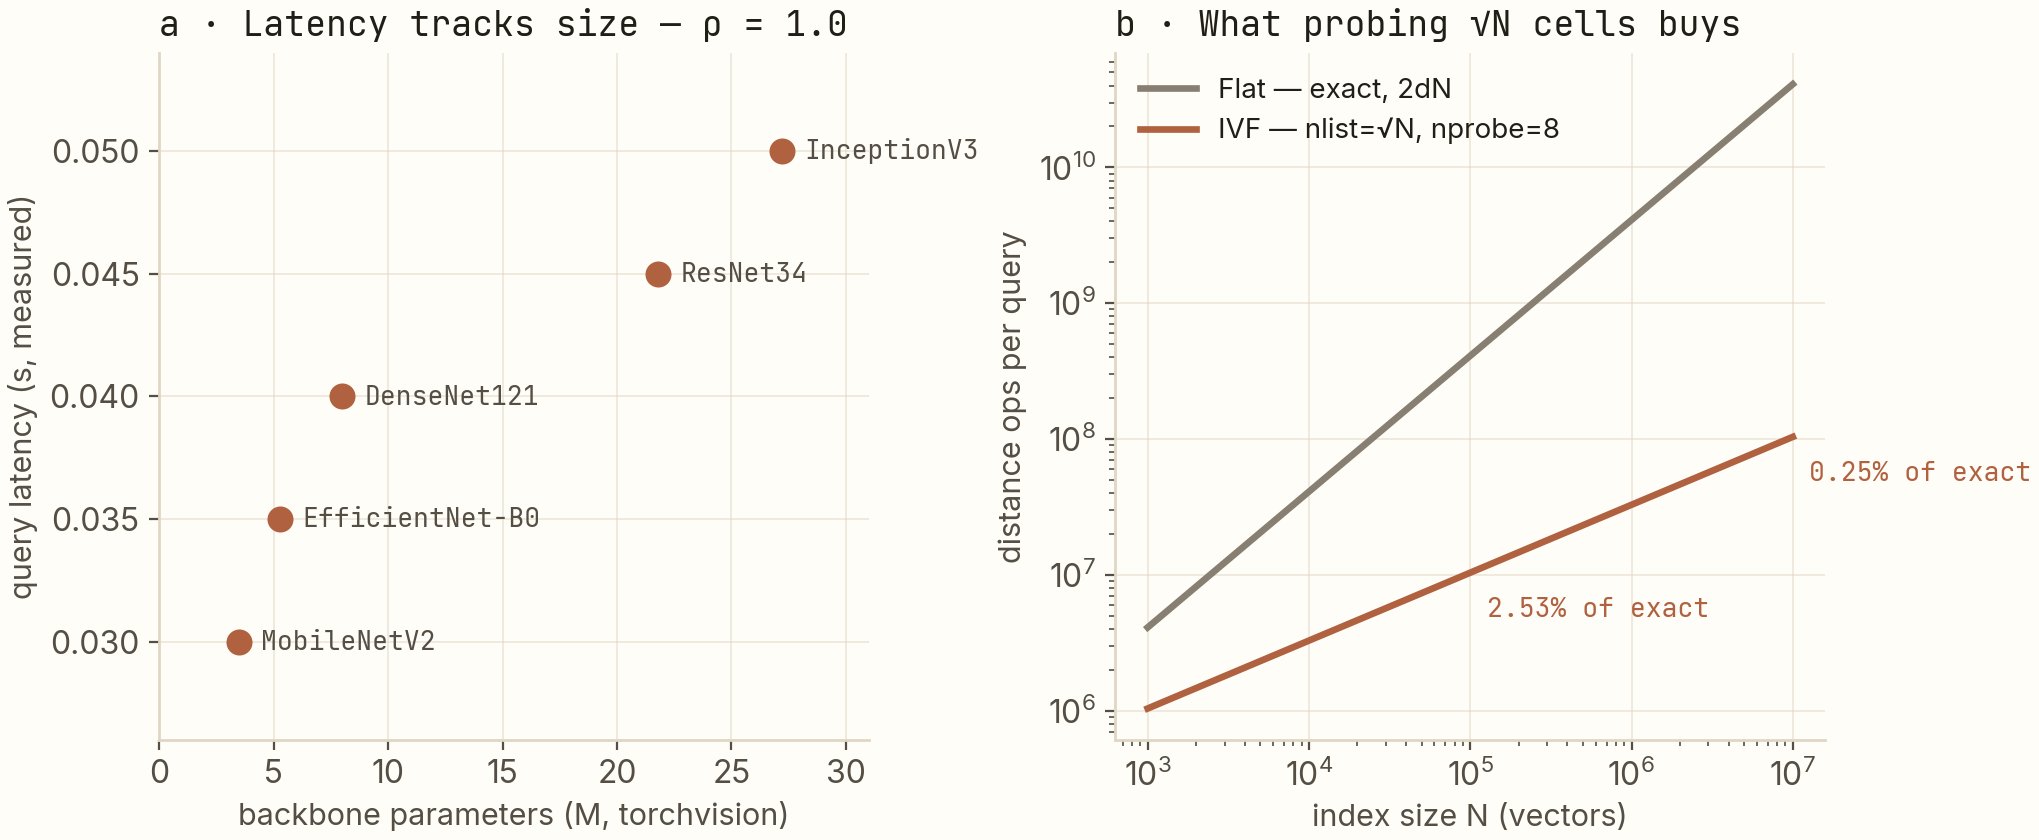
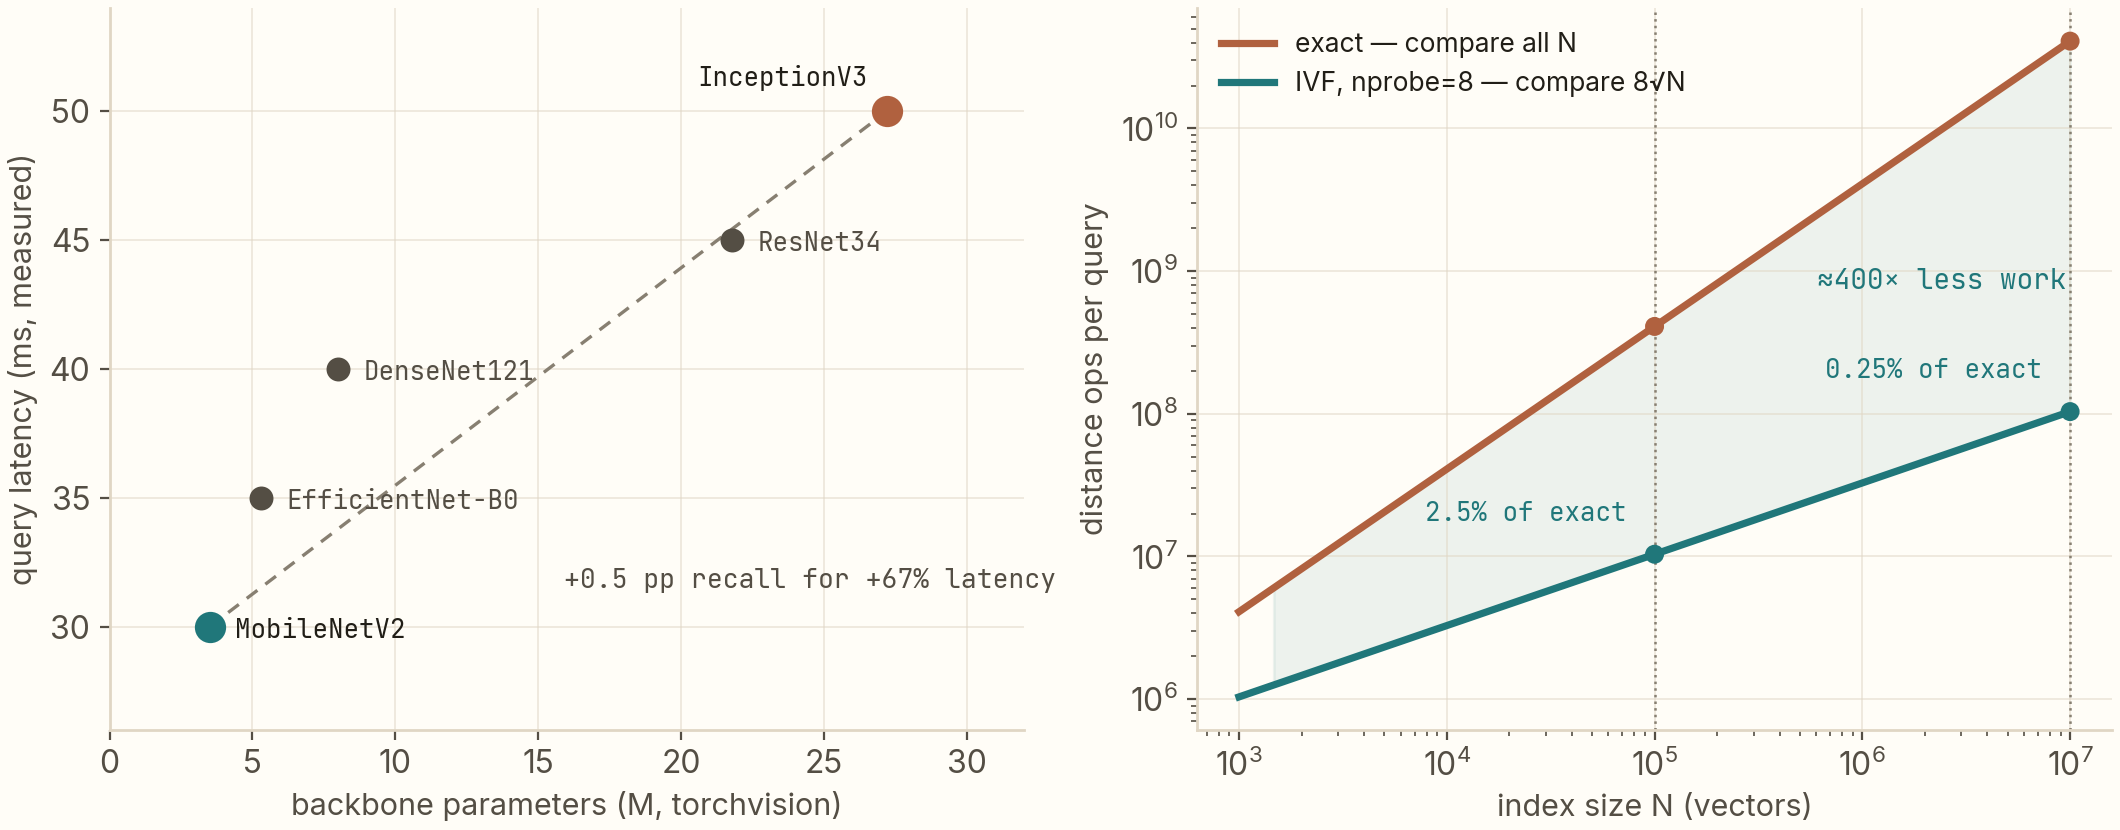
site: redesign image-search figures, move panel captions into HTML

diff --git a/posts/image-search-geometry.html b/posts/image-search-geometry.html
@@ -74,14 +74,11 @@
         <div class="prose">
           <div class="callout">
             <div class="h">TL;DR</div>
-            <p style="margin:0;">
-              Modern image search turns every picture into a vector, then finds nearby vectors. Once you see
-              that, three things become provable rather than mystical: <strong>cosine and L2 similarity give
-              identical rankings</strong> after normalization (two-line proof); <strong>precision 1.00 with
-              recall 0.87 tells you exactly what kind of failure you have</strong> (ranking, not retrieval);
-              and <strong>exact search dies on arithmetic you can do on paper</strong> (4×10⁸ distance
-              computations per query at 100K images — 2.5% of that with an IVF index).
-            </p>
+            <ul style="margin:.35rem 0 0; padding-left:1.15rem;">
+              <li style="margin:.3rem 0;"><strong>Cosine and Euclidean distance give identical rankings</strong> once vectors are normalized — provable in two lines.</li>
+              <li style="margin:.3rem 0;"><strong>Precision 1.00 with recall 0.87 is a diagnosis</strong>, not a disappointment: the failure is ranking, not confusion — and the two have different fixes.</li>
+              <li style="margin:.3rem 0;"><strong>Exact search dies on arithmetic you can do on paper</strong>: 4×10⁸ distance computations per query at 100K images. An IVF index does 2.5% of that.</li>
+            </ul>
           </div>
 
           <h2>What this post is about</h2>
@@ -102,7 +99,7 @@
           </p>
           <ul>
             <li>what an <strong>embedding</strong> is and why "closer vector = similar image" is even coherent;</li>
-            <li>a two-line proof that the two similarity metrics everyone mentions — <strong>cosine and L2 distance</strong> — are the same thing;</li>
+            <li>a two-line proof that the two similarity metrics everyone mentions — <strong>cosine similarity and Euclidean (L2) distance</strong> — are the same thing;</li>
             <li>how to read <strong>precision and recall</strong> for a retrieval system, and what their combination diagnoses;</li>
             <li>the <strong>cost arithmetic</strong> that forces big systems away from exact search.</li>
           </ul>
@@ -157,10 +154,10 @@
             The rest of the post is about those.
           </p>
 
-          <h2>Result 1: cosine and L2 are the same ranking</h2>
+          <h2>Result 1: cosine similarity and Euclidean distance give the same ranking</h2>
           <p>
             You'll see image-search codebases (including mine) normalize every vector to length 1 and then
-            search by <em>L2 distance</em> — while every tutorial talks about <em>cosine similarity</em>.
+            search by <em>Euclidean distance</em> (L2) — while every tutorial talks about <em>cosine similarity</em>.
             These produce identical rankings, and the proof is two lines of algebra.
           </p>
           <p>
@@ -183,8 +180,8 @@
           </ul>
 
           <figure class="figure">
-            <img src="../assets/img/posts/image-search-geometry/geometry.png" alt="Left: curve of squared L2 distance versus cosine similarity for unit vectors, with three marked points. Right: unit circle scatter plot of two embedding classes with an angular decision boundary and a query point." />
-            <figcaption>How to read this: left is the equation above drawn as a curve — the three dots are the pairs listed in the text. Right is a fake 2-D embedding space standing in for the real 1000-dimensional one: two image classes (dots by color) land in different directions from the origin, so a query (star) is answered by angle alone. The dashed lines are the natural decision boundary.</figcaption>
+            <img src="../assets/img/posts/image-search-geometry/geometry.png?v=2" alt="Left: squared Euclidean distance plotted against cosine similarity for unit vectors — one curve, with the region where similar images live shaded. Right: a 2-D embedding space with two image classes as point clouds in opposite directions, a query star, and a hollow point showing that halving a vector's length does not change its ranking." />
+            <figcaption><strong>a · One number determines the other.</strong> The equation as a curve: distance is fully determined by cosine similarity, and retrieval-quality neighbors (cos θ ≥ 0.90, shaded) all sit in its flat region. <strong>b · Only the angle matters.</strong> A 2-D stand-in for the real 1000-dimensional space: two classes are two <em>directions</em>, the query is answered by angle alone, and the hollow point shows why — same direction, half the length, identical ranking.</figcaption>
           </figure>
 
           <p>
@@ -208,14 +205,18 @@
             index and are findable — they simply scored below the cut. <strong>All error is ranking error,
             none is confusion error.</strong>
           </p>
+          <div class="callout">
+            <div class="h">Reading the pair</div>
+            <ul style="margin:.35rem 0 0; padding-left:1.15rem;">
+              <li style="margin:.3rem 0;"><strong>P high, R low</strong> — clean embeddings, conservative ranking. A systems problem: return more neighbors, lower the threshold, tighten within-class compactness. Mechanical fixes.</li>
+              <li style="margin:.3rem 0;"><strong>P low</strong> — embeddings genuinely mix classes. A model problem: no index knob helps; you need a better backbone.</li>
+            </ul>
+          </div>
+
           <p>
-            Why does that distinction matter? Because it dictates the fix. If precision were the problem,
-            you'd need a better backbone — the embeddings genuinely mix classes. With ranking-only error,
-            the knobs are mechanical: return more neighbors per query, lower the similarity threshold, or
-            improve within-class compactness (via fine-tuning). Compare two hypothetical systems with
-            similar F1: P 0.90 / R 0.90 (confused embeddings — model problem) vs my P 1.00 / R 0.87
-            (conservative ranking — systems problem). Same F1, completely different to-do list. That's why
-            I read the precision/recall pair <em>shape</em> before any single number.
+            That's why the pair's <em>shape</em> beats any single number. Two systems with the same F1 —
+            P 0.90 / R 0.90 versus my P 1.00 / R 0.87 — carry opposite diagnoses: the first has confused
+            embeddings, the second merely ranks conservatively. Same score, completely different to-do list.
           </p>
 
           <h2>Result 3: the arithmetic that kills exact search</h2>
@@ -239,16 +240,16 @@
           </p>
 
           <figure class="figure">
-            <img src="../assets/img/posts/image-search-geometry/cost.png" alt="Left: scatter plot of backbone parameter count versus measured query latency for five CNNs, with perfect rank correlation. Right: log-log plot of distance computations per query versus index size for Flat and IVF search." />
-            <figcaption>How to read this: left — my measured query latency (vertical) against each backbone's parameter count (horizontal, from torchvision). The ordering is a perfect rank correlation: at this scale the embedding pass dwarfs the FAISS lookup. Right — distance computations per query as your database grows: the gray line is exact search (linear), the accent line is IVF (proportional to √N). The gap is ≈400× at 10M images.</figcaption>
+            <img src="../assets/img/posts/image-search-geometry/cost.png?v=2" alt="Left: measured query latency versus parameter count for five CNN backbones, ordered perfectly along a trade-off line from MobileNetV2 to InceptionV3. Right: distance computations per query versus index size on log-log axes — exact search grows linearly with N, IVF with the square root of N, a 400x gap at 10 million vectors." />
+            <figcaption><strong>a · Latency tracks the backbone (ρ = 1.00).</strong> Five backbones, one trade-off line: the recall you buy at InceptionV3 costs +67% latency over MobileNetV2 (the two highlighted endpoints). <strong>b · Exact search grows with N; IVF with √N.</strong> The shaded gap is ≈400× less work at 10M images, tunable back toward exactness via nprobe.</figcaption>
           </figure>
 
           <p>
             The left panel is the sleeper insight of the whole experiment: <strong>latency is decided by
-            the backbone, not the search</strong>. The CNN forward pass dominates; FAISS is a rounding
-            error. Which turns backbone choice into a quantified engineering decision: InceptionV3 buys
-            +0.5 percentage points of recall over MobileNetV2 for 67% more latency. Take that trade or
-            don't — but now it's a line item, not a benchmark trophy.
+            the backbone, not the search</strong> — the CNN forward pass dominates, and FAISS is a
+            rounding error. The dashed line between the two highlighted endpoints is the whole decision:
+            InceptionV3 buys +0.5 percentage points of recall over MobileNetV2 for 67% more latency.
+            Take that trade or don't — but it's a line item now, not a benchmark trophy.
           </p>
 
           <h2>Same math, bigger scale</h2>

diff --git a/tools/make_image_search_figures.py b/tools/make_image_search_figures.py
@@ -1,0 +1,221 @@
+#!/usr/bin/env python3
+"""Regenerate the two figures for the image-search-geometry post.
+
+Design goals (2026 rework):
+- Functional two-hue palette: site clay #b0613f vs petrol teal #20777a, so
+  categories read instantly on the cream background instead of four shades
+  of brown.
+- Every annotation placed at hand-checked coordinates — no label collisions.
+- Panels teach: takeaway titles, shaded meaning-zones, the trade-off drawn
+  on the chart, not just the data.
+
+Run:  python3 tools/make_image_search_figures.py
+Writes: assets/img/posts/image-search-geometry/{geometry,cost}.png
+"""
+import numpy as np
+import matplotlib
+matplotlib.use("Agg")
+from matplotlib import font_manager
+from matplotlib.patches import Wedge
+import glob as _glob
+import os
+
+for _f in _glob.glob(os.path.join(os.path.dirname(__file__), "fonts", "*.ttf")):
+    font_manager.fontManager.addfont(_f)
+
+import matplotlib.pyplot as plt
+
+ROOT = os.path.join(os.path.dirname(__file__), "..", "assets", "img", "posts")
+
+BG, PANEL, BORDER = "#fffdf7", "#fffdf7", "#e0d6c4"
+TEXT, SOFT, MUTE = "#211e17", "#544e44", "#877f71"
+CLAY, CLAY_SOFT = "#b0613f", "#d68a64"
+TEAL, TEAL_SOFT = "#20777a", "#5ea3a1"
+
+plt.rcParams.update({
+    "figure.facecolor": BG, "axes.facecolor": PANEL,
+    "savefig.facecolor": BG, "font.family": "Inter",
+    "text.color": TEXT, "axes.labelcolor": SOFT,
+    "xtick.color": SOFT, "ytick.color": SOFT,
+    "axes.edgecolor": BORDER, "axes.linewidth": 1.0,
+    "grid.color": BORDER, "grid.alpha": 0.55, "grid.linewidth": 0.8,
+    "font.size": 11.5, "axes.titlesize": 12.5, "axes.labelsize": 11,
+    "legend.frameon": False, "figure.dpi": 200,
+})
+MONO = {"family": "JetBrains Mono"}
+
+def style_ax(ax, grid=True):
+    ax.spines[["top", "right"]].set_visible(False)
+    if grid:
+        ax.grid(True, linestyle="-", linewidth=0.7, alpha=0.5)
+    else:
+        ax.grid(False)
+
+def save(fig, name):
+    d = os.path.join(ROOT, "image-search-geometry")
+    os.makedirs(d, exist_ok=True)
+    fig.savefig(os.path.join(d, name), dpi=200)
+    plt.close(fig)
+    print("wrote", os.path.join(d, name))
+
+rng = np.random.default_rng(11)
+
+# ================================================================
+# FIGURE 1 — geometry.png
+# ================================================================
+fig = plt.figure(figsize=(10.6, 4.15), constrained_layout=True)
+
+# --- Panel a: d^2 = 2 - 2 cos θ ---------------------------------
+ax = fig.add_subplot(1, 2, 1)
+c = np.linspace(0.0, 1.0, 400)
+ax.plot(c, 2 - 2 * c, color=CLAY, lw=2.6, zorder=3)
+
+# "where similar images live" band (explained in the figure caption)
+ax.axvspan(0.90, 1.0, color=TEAL, alpha=0.08, zorder=1)
+
+# the equation, boxed in the empty region under the curve's left flank
+# (kept inside the axes so it can't occlude the y-tick labels)
+ax.text(0.30, 0.64, "||a − b||² = 2 − 2·cos θ", color=TEXT, fontsize=12.5,
+        ha="center", va="center", **MONO,
+        bbox=dict(boxstyle="round,pad=0.5", fc="#fbf7ef", ec=BORDER, lw=1.0))
+
+# three marked points as numbered disks, keyed by the block below —
+# no leader lines, nothing that can strike through anything
+# (disk 3 sits a hair inside the corner so the axes spines don't clip it)
+marks = [(0.90, 0.200, "1"), (0.95, 0.100, "2"), (0.984, 0.032, "3")]
+for cx, dy, num in marks:
+    ax.scatter([cx], [dy], s=95, color=TEAL, edgecolor="white",
+               linewidth=1.2, zorder=5)
+    ax.text(cx, dy, num, color="white", fontsize=7, ha="center",
+            va="center", zorder=6, **MONO)
+ax.text(0.03, 0.14,
+        "1 · cos θ = 0.90 → d² = 0.200\n"
+        "2 · cos θ = 0.95 → d² = 0.100\n"
+        "3 · cos θ = 0.99 → d² = 0.020",
+        color=SOFT, fontsize=9.6, ha="left", va="bottom", linespacing=1.7,
+        **MONO)
+
+ax.set_xlabel("cosine similarity  cos θ")
+ax.set_ylabel("squared Euclidean distance  ‖a − b‖²")
+# panel titles live in the blog's figcaption, not in the image
+ax.set_xlim(0, 1.0); ax.set_ylim(0, 2.05)
+ax.set_xticks([0, 0.25, 0.5, 0.75, 1.0])
+style_ax(ax)
+
+# --- Panel b: unit circle, angle is everything -------------------
+ax = fig.add_subplot(1, 2, 2)
+tA = np.deg2rad(rng.normal(38, 11, 85))
+tB = np.deg2rad(rng.normal(-38, 11, 85))
+tA = tA[np.abs(np.rad2deg(tA)) < 72]
+tB = tB[np.abs(np.rad2deg(tB)) < 72]
+
+# soft class sectors behind the points
+ax.add_patch(Wedge((0, 0), 1.14, 14, 62, facecolor=TEAL, alpha=0.10, lw=0))
+ax.add_patch(Wedge((0, 0), 1.14, -62, -14, facecolor=CLAY, alpha=0.10, lw=0))
+
+ax.scatter(np.cos(tA), np.sin(tA), s=17, color=TEAL, alpha=0.85, lw=0,
+           label="class A", zorder=4)
+ax.scatter(np.cos(tB), np.sin(tB), s=17, color=CLAY, alpha=0.85, lw=0,
+           label="class B", zorder=4)
+
+# decision boundary: the single ray that separates the two sectors
+ax.plot([-1.22, 1.22], [0, 0], color=SOFT, lw=1.4, ls=(0, (5, 4)), alpha=0.9)
+ax.text(-1.19, 0.07, "angular decision boundary", color=MUTE, fontsize=8.6,
+        ha="left", **MONO)
+
+# query on the circle + the same-direction point at half radius
+tq = np.deg2rad(20)
+qx, qy = np.cos(tq), np.sin(tq)
+hx, hy = 0.52 * qx, 0.52 * qy
+ax.scatter([qx], [qy], s=170, color=TEXT, marker="*", zorder=6, label="query")
+ax.scatter([hx], [hy], s=58, facecolor="none", edgecolor=TEXT, lw=1.5, zorder=6)
+ax.plot([hx, qx], [hy, qy], color=TEXT, lw=1.0, ls=":", zorder=5)
+ax.annotate("query", (qx, qy), xytext=(9, 4), textcoords="offset points",
+            fontsize=10, color=TEXT, **MONO)
+ax.annotate("same direction, half the length\n→ identical ranking",
+            xy=(hx, hy), xytext=(-1.19, 0.55), textcoords="data",
+            fontsize=9.3, color=SOFT, ha="left", va="center", linespacing=1.5,
+            arrowprops=dict(arrowstyle="-", color=MUTE, lw=0.9,
+                            shrinkA=2, shrinkB=5,
+                            connectionstyle="arc3,rad=0.12"))
+
+# θ arc from the dim-1 axis to the query ray
+arc = np.linspace(0, tq, 50)
+ax.plot(0.35 * np.cos(arc), 0.35 * np.sin(arc), color=TEAL, lw=1.8, zorder=5)
+ax.text(0.42, 0.055, "θ", color=TEAL, fontsize=13, fontstyle="italic",
+        ha="center", va="center")
+
+ax.set_xlabel("embedding dim 1"); ax.set_ylabel("embedding dim 2")
+ax.set_xlim(-1.22, 1.22); ax.set_ylim(-1.22, 1.22)
+ax.set_aspect("equal")
+ax.legend(loc="upper left", fontsize=9.5, handletextpad=0.3)
+style_ax(ax, grid=False)
+save(fig, "geometry.png")
+
+# ================================================================
+# FIGURE 2 — cost.png
+# ================================================================
+params = {"MobileNetV2": 3.5, "EfficientNet-B0": 5.3, "DenseNet121": 8.0,
+          "ResNet34": 21.8, "InceptionV3": 27.2}        # torchvision, M params
+lat_ms = {"MobileNetV2": 30, "EfficientNet-B0": 35, "DenseNet121": 40,
+          "ResNet34": 45, "InceptionV3": 50}             # measured, find-me-lens
+
+fig = plt.figure(figsize=(10.6, 4.15), constrained_layout=True)
+
+# --- Panel a: latency vs backbone size ---------------------------
+ax = fig.add_subplot(1, 2, 1)
+# trade-off spine between the two endpoints
+ax.plot([params["MobileNetV2"], params["InceptionV3"]],
+        [lat_ms["MobileNetV2"], lat_ms["InceptionV3"]],
+        color=MUTE, lw=1.2, ls=(0, (4, 3)), zorder=2)
+
+offsets = {"MobileNetV2": (9, -4), "EfficientNet-B0": (9, -4),
+           "DenseNet121": (9, -4), "ResNet34": (9, -4),
+           "InceptionV3": (-7, 9)}
+ha = {n: "left" for n in params}; ha["InceptionV3"] = "right"
+for n in params:
+    star = n in ("MobileNetV2", "InceptionV3")
+    ax.scatter([params[n]], [lat_ms[n]], s=105 if star else 58,
+               color=TEAL if n == "MobileNetV2" else CLAY if n == "InceptionV3" else SOFT,
+               zorder=5)
+    ax.annotate(n, (params[n], lat_ms[n]), xytext=offsets[n],
+                textcoords="offset points", fontsize=9.3,
+                color=TEXT if star else SOFT, ha=ha[n], **MONO)
+
+ax.text(24.5, 31.5, "+0.5 pp recall for +67% latency", color=SOFT,
+        fontsize=9.5, ha="center", **MONO)
+
+ax.set_xlabel("backbone parameters (M, torchvision)")
+ax.set_ylabel("query latency (ms, measured)")
+ax.set_xlim(0, 32); ax.set_ylim(26, 54)
+style_ax(ax)
+
+# --- Panel b: exact vs IVF cost ----------------------------------
+ax = fig.add_subplot(1, 2, 2)
+N = np.logspace(3, 7, 240)
+d, nprobe = 2048, 8
+exact = 2 * d * N
+ivf = 2 * d * nprobe * np.sqrt(N)
+
+ax.loglog(N, exact, color=CLAY, lw=2.6, label="exact — compare all N", zorder=3)
+ax.loglog(N, ivf, color=TEAL, lw=2.6, label="IVF, nprobe=8 — compare 8√N", zorder=3)
+ax.fill_between(N[10:], ivf[10:], exact[10:], color=TEAL, alpha=0.08, zorder=1)
+
+for nn, pct in [(1e5, "2.5% of exact"), (1e7, "0.25% of exact")]:
+    ax.axvline(nn, color=MUTE, lw=0.9, ls=":", zorder=2)
+    ax.scatter([nn, nn], [2 * d * nn, 2 * d * nprobe * np.sqrt(nn)],
+               s=34, color=[CLAY, TEAL], zorder=5)
+    ax.annotate(pct, (nn, 2 * d * nprobe * np.sqrt(nn)), xytext=(-10, 12),
+                textcoords="offset points", fontsize=9.3, color=TEAL,
+                ha="right", **MONO)
+
+ax.text(2.4e6, 7.5e8, "≈400× less work", color=TEAL, fontsize=10,
+        ha="center", **MONO)
+
+ax.set_xlabel("index size N (vectors)")
+ax.set_ylabel("distance ops per query")
+ax.legend(loc="upper left", fontsize=9.5)
+style_ax(ax)
+save(fig, "cost.png")
+
+print("DONE")
